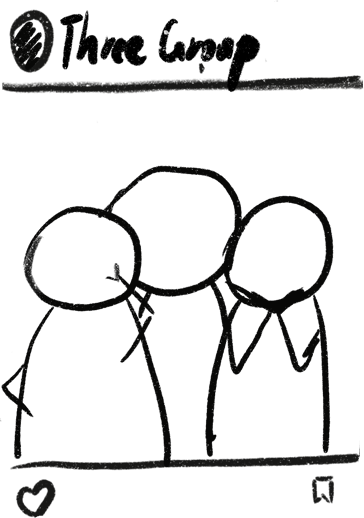
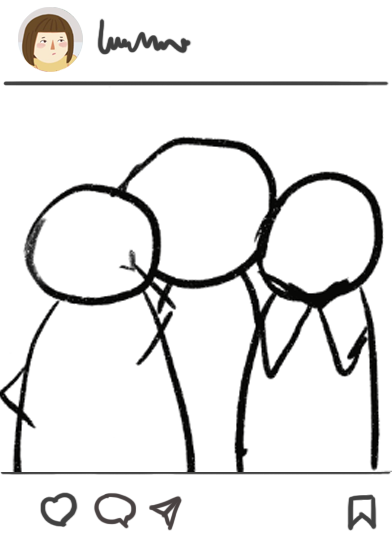
LevelFirstIns

Changed region(s): [[0.0, 0.2471, 1.0, 1.0], [0.0, 0.0, 0.9973, 0.1853]]

diff --git a/Assets/Scripts/BigLevels/LevelFirstIns.cs b/Assets/Scripts/BigLevels/LevelFirstIns.cs
@@ -8,6 +8,8 @@ public class LevelFirstIns : LevelBasic
 {
     public ScrollRect scroll;
     public CanvasGroup canvasGroupIns;
+    public Image imgBg;
+
 
     [Header("Photo")]
     public GameObject pfPhoto;
@@ -33,6 +35,7 @@ public class LevelFirstIns : LevelBasic
 
     public override void Init(LevelManager parent)
     {
+        imgBg.DOFade(0, 0);
         base.Init(parent);
 
         InitView();
@@ -67,7 +70,7 @@ public class LevelFirstIns : LevelBasic
     {
         GameObject objShoot = GameObject.Instantiate(pfPhoto, tfContentPhoto);
         itemPhoto = objShoot.GetComponent<ItemInsPhoto>();
-        itemPhoto.Init(this, PhotoType.Display,20.2f,99.4f);
+        itemPhoto.Init(this, PhotoType.Display,GameGlobal.posFP_photoToInsX, GameGlobal.posFP_photoToInsY);
 
 
         imgInsPhoto.sprite = GameManager.Instance.levelManager.spLastShoot;
@@ -78,8 +81,11 @@ public class LevelFirstIns : LevelBasic
 
     public IEnumerator IE_InitAni()
     {
+        itemPhoto.imgFrame.DOFade(0, 0.5f);
+        imgBg.DOFade(1f, 0.5f);
+        yield return new WaitForSeconds(0.5F);
+        itemPhoto.imgPhoto.DOFade(0, 0.5f);
         canvasGroupIns.DOFade(1f, 0.5f);
-        itemPhoto.canvasGroupPhoto.DOFade(0, 0.5f);
         yield return new WaitForSeconds(1F);
         PublicTool.ClearChildItem(tfContentPhoto);
     }

diff --git a/Assets/Scripts/LevelDetail/Party/ItemInsPhoto.cs b/Assets/Scripts/LevelDetail/Party/ItemInsPhoto.cs
@@ -21,6 +21,7 @@ public class ItemInsPhoto : MonoBehaviour
     public Button btnShoot;
     public Image imgPhoto;
     public Image imgBlack;
+    public Image imgFrame;
 
     private bool isInit = false;
     private bool isShoot = false;
@@ -149,7 +150,7 @@ public class ItemInsPhoto : MonoBehaviour
         {
             case LevelState.FirstParty:
             case LevelState.SecondParty:
-                this.transform.DOLocalMove(new Vector2(20.2f, 99.4F), 0.5f);
+                this.transform.DOLocalMove(new Vector2(GameGlobal.posFP_photoToInsX, GameGlobal.posFP_photoToInsY), 0.5f);
                 break;
             case LevelState.FakeSuicide:
                 this.transform.DOLocalMove(new Vector2(20.2f, 105.7f), 0.5f);

diff --git a/Assets/Scripts/PublicTool/GameGlobal.cs b/Assets/Scripts/PublicTool/GameGlobal.cs
@@ -13,7 +13,8 @@ public static class GameGlobal
     public static float timerFP_light = 0.5f;//The time that the light become bright from none
     public static float scaleFP_photoToInsX = 0.65f;//The X scale of the photo scale down after taking photo(Dont touch it) 
     public static float scaleFP_photoToInsY = 0.7f;//The Y scale of the photo scale down after taking photo(Dont touch it) 
-
+    public static float posFP_photoToInsX = 48f;
+    public static float posFP_photoToInsY = 86f;
 
     //SecondParty
     public static int countSP_fail = 12;
